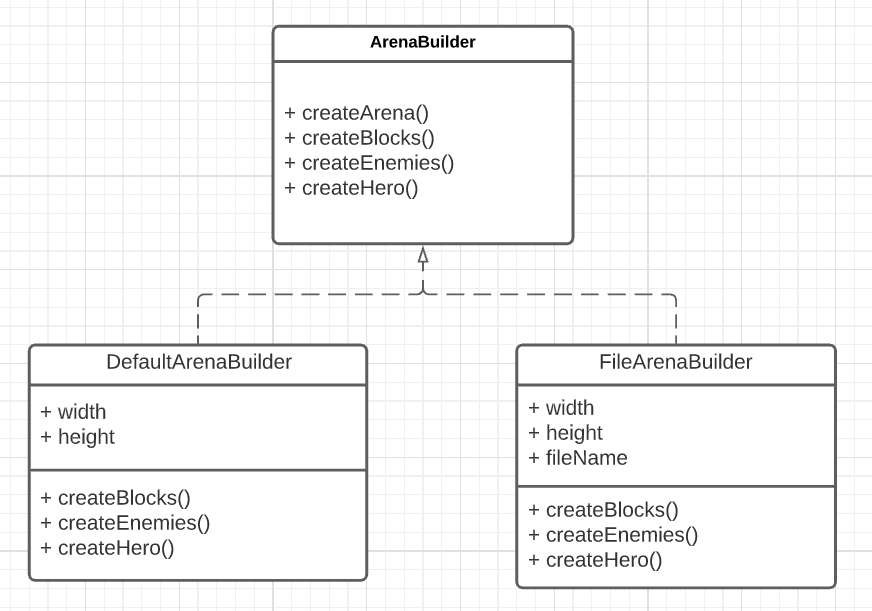
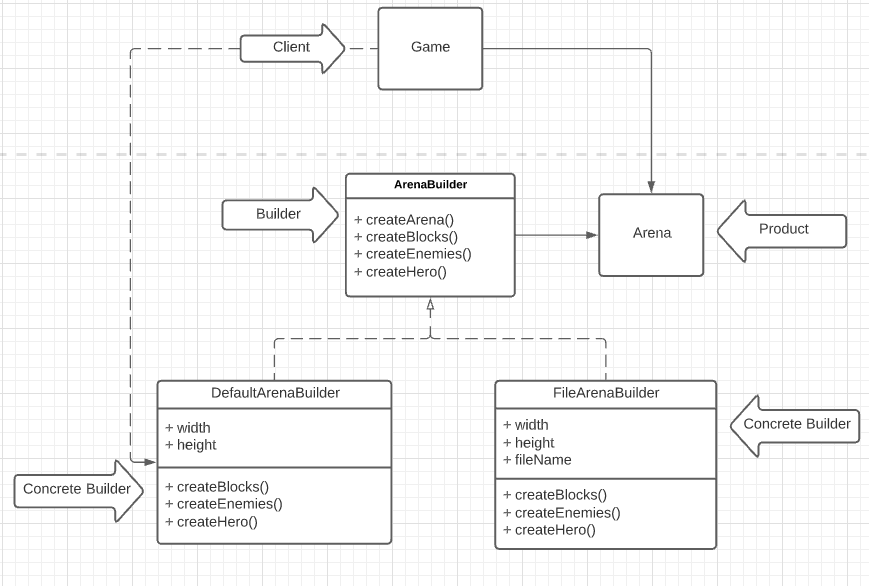
updated

diff --git a/docs/README.md b/docs/README.md
@@ -1,20 +1,20 @@
-#LPOO_34 - Terraria
+# LPOO_34 - Terraria
 
 [PROJECT DESCRIPTION]
 
-##Implemented Features
+## Implemented Features
 [WRITE HERE WHAT YOU IMPLEMENT IN CONTROLLER/VIEWERS]
 
 **Element drawing** - Each element of the game is drawn with its own
 image, represented by characters and saved in text files
 
-##Planned Features
+## Planned Features
 [WRITE HERE WHAT WE WILL DO AFTER THE FIRST DELIVERY]
 
-##Design
+## Design
 [WRITE THERE EACH TIME YOU HAVE TO SOLVE A PROBLEM]
 
-###There should be multiple ways of creating arenas
+### There should be multiple ways of creating arenas
 
 **Problem in Context:** We want to have the possibility of creating different arenas, which could be associated with a specific level / region. Additionally, we also want to introduce more flexibility so that in the future we can create the arena through different methods, for example, reading a file.
 
@@ -23,15 +23,33 @@ image, represented by characters and saved in text files
 
 **Implementation:** This pattern suggests that we extract the object construction out of its own class and move it to separate objects called builders.
 
-**Consequences:** 
+![alt text](uml/builderMethod_arena.png "Builder Method UML")
 
-##Known Code Smells and Refactoring Suggestions
+As we can see, we have an *ArenaBuilder* that knows how to create an arena (createArena method), but the way each part of the arena is built is specified in its subclasses.  
+
+These classes can be found in the following files: 
+
+* [ArenaBuilder](https://github.com/FEUP-LPOO-2021/lpoo-2021-g34/blob/master/src/main/java/Model/arena/ArenaBuilder.java).
+* [DefaultArenaBuilder](https://github.com/FEUP-LPOO-2021/lpoo-2021-g34/blob/master/src/main/java/Model/arena/DefaultArenaBuilder.java).
+* [Arena](https://github.com/FEUP-LPOO-2021/lpoo-2021-g34/blob/master/src/main/java/Model/arena/Arena.java)
+* [Game](https://github.com/FEUP-LPOO-2021/lpoo-2021-g34/blob/master/src/main/java/Game.java)
+
+**Consequences:** The use of the Builder Pattern allows the following benefits:
+* Construct objects step-by-step
+* Reuse the same construction code
+* Single Responsability Principle. Isolate complex construction code from the logic of the Arena.
+
+#### 
+
+
+## Known Code Smells and Refactoring Suggestions
 [DO IT IN THE END]
 
-##Testing
+
+## Testing
 [PUT SCREENSHOTS OF THE TESTS IN THE END]
 
-##Self-Evaluation
+## Self-Evaluation
 Bruno Rosendo: 1/3
 
 Francisco Colino: 1/3
